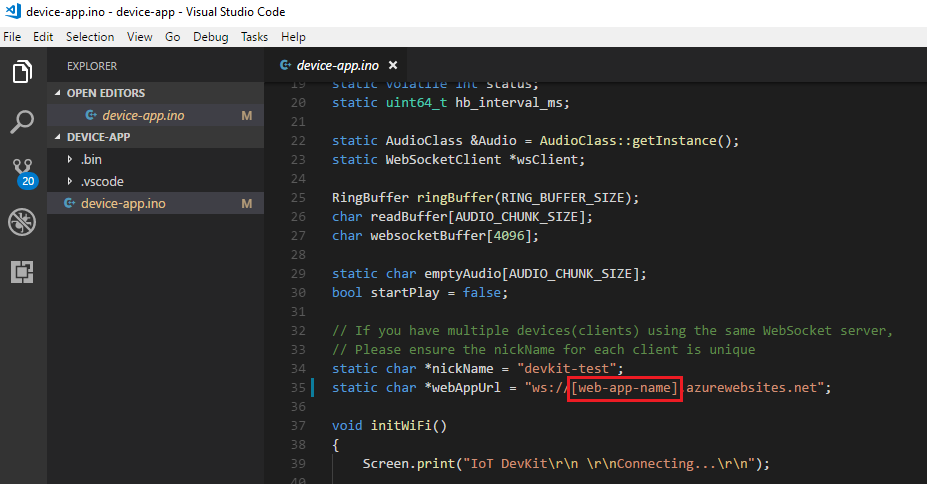
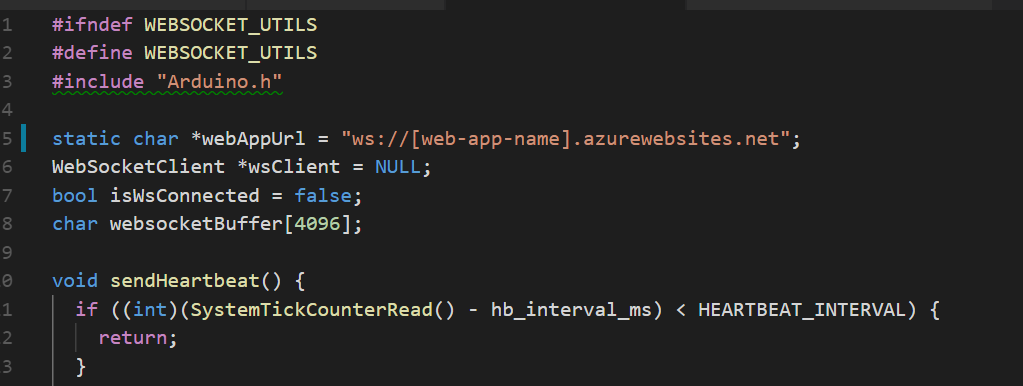
readme preview1

diff --git a/Device/WebSocketUtils.h b/Device/WebSocketUtils.h
@@ -2,7 +2,7 @@
 #define WEBSOCKET_UTILS
 #include "Arduino.h"
 
-static char *webAppUrl = "";
+static char *webAppUrl = "ws://[web-app-name].azurewebsites.net";
 WebSocketClient *wsClient = NULL;
 bool isWsConnected = false;
 char websocketBuffer[4096];

diff --git a/README.md b/README.md
@@ -9,7 +9,10 @@ In this project, we use two Devkits to build a music player. This two Devkits ar
 3. `git clone https://github.com/ab-sin-the/devkit-music-player` 
 4. `cd devkit-music-player`
 
-## Step 1: Upload the sketch file in VoiceRecorder to one of Devkits.
+## Step 1: Upload the sketch file in VoiceRecorder folder to one of Devkits.
+
+Since IoT workbench currently does not support dealing with two devices
+at the same time. One device has to be uploaded first.
 
 ## Step 2: Create Storage Account
 1. Log in to the [Azure portal](http://portal.azure.com/).
@@ -75,14 +78,18 @@ Please follow the steps below to deploy your Web Socket.
 
 ## Play with Devkit Music Player
 
-1. Press **Reset** button on the DevKit to restart your device application.
+1. Press **Reset** button on the first DevKit to restart your device application.
 
-    *Note: Please ensure your DevKit is connected to Wi-Fi.*
+    *Note: Please ensure the DevKit is connected to Wi-Fi.*
 
-2. After the DevKit connect to Wi-Fi successfully, press button A to start a convercation.
+2. After the DevKit connect to Wi-Fi successfully, press button A to start the music player.
 
-3. Hold down button B to talk, and release button B when you finish your voice command.
+3. Press **Reset** button on the second DevKit to restart the voice recorder.
 
-4. Wait a few seconds for service to process the voice command.
+4. Connect the two Devkits via Serial.
 
-5. The DevKit will play back the response audio via the headphone output on your DevKit. You can hear the audio via headphone connected to it.
+5. Press button A on the second Devkit and you can control the music player via voice now.
+
+    *Note: Do not connect two devkits until you have pressed button A of the first devkits.*
+
+    ![connect-devkits](media/devkit-connect.jpg)
